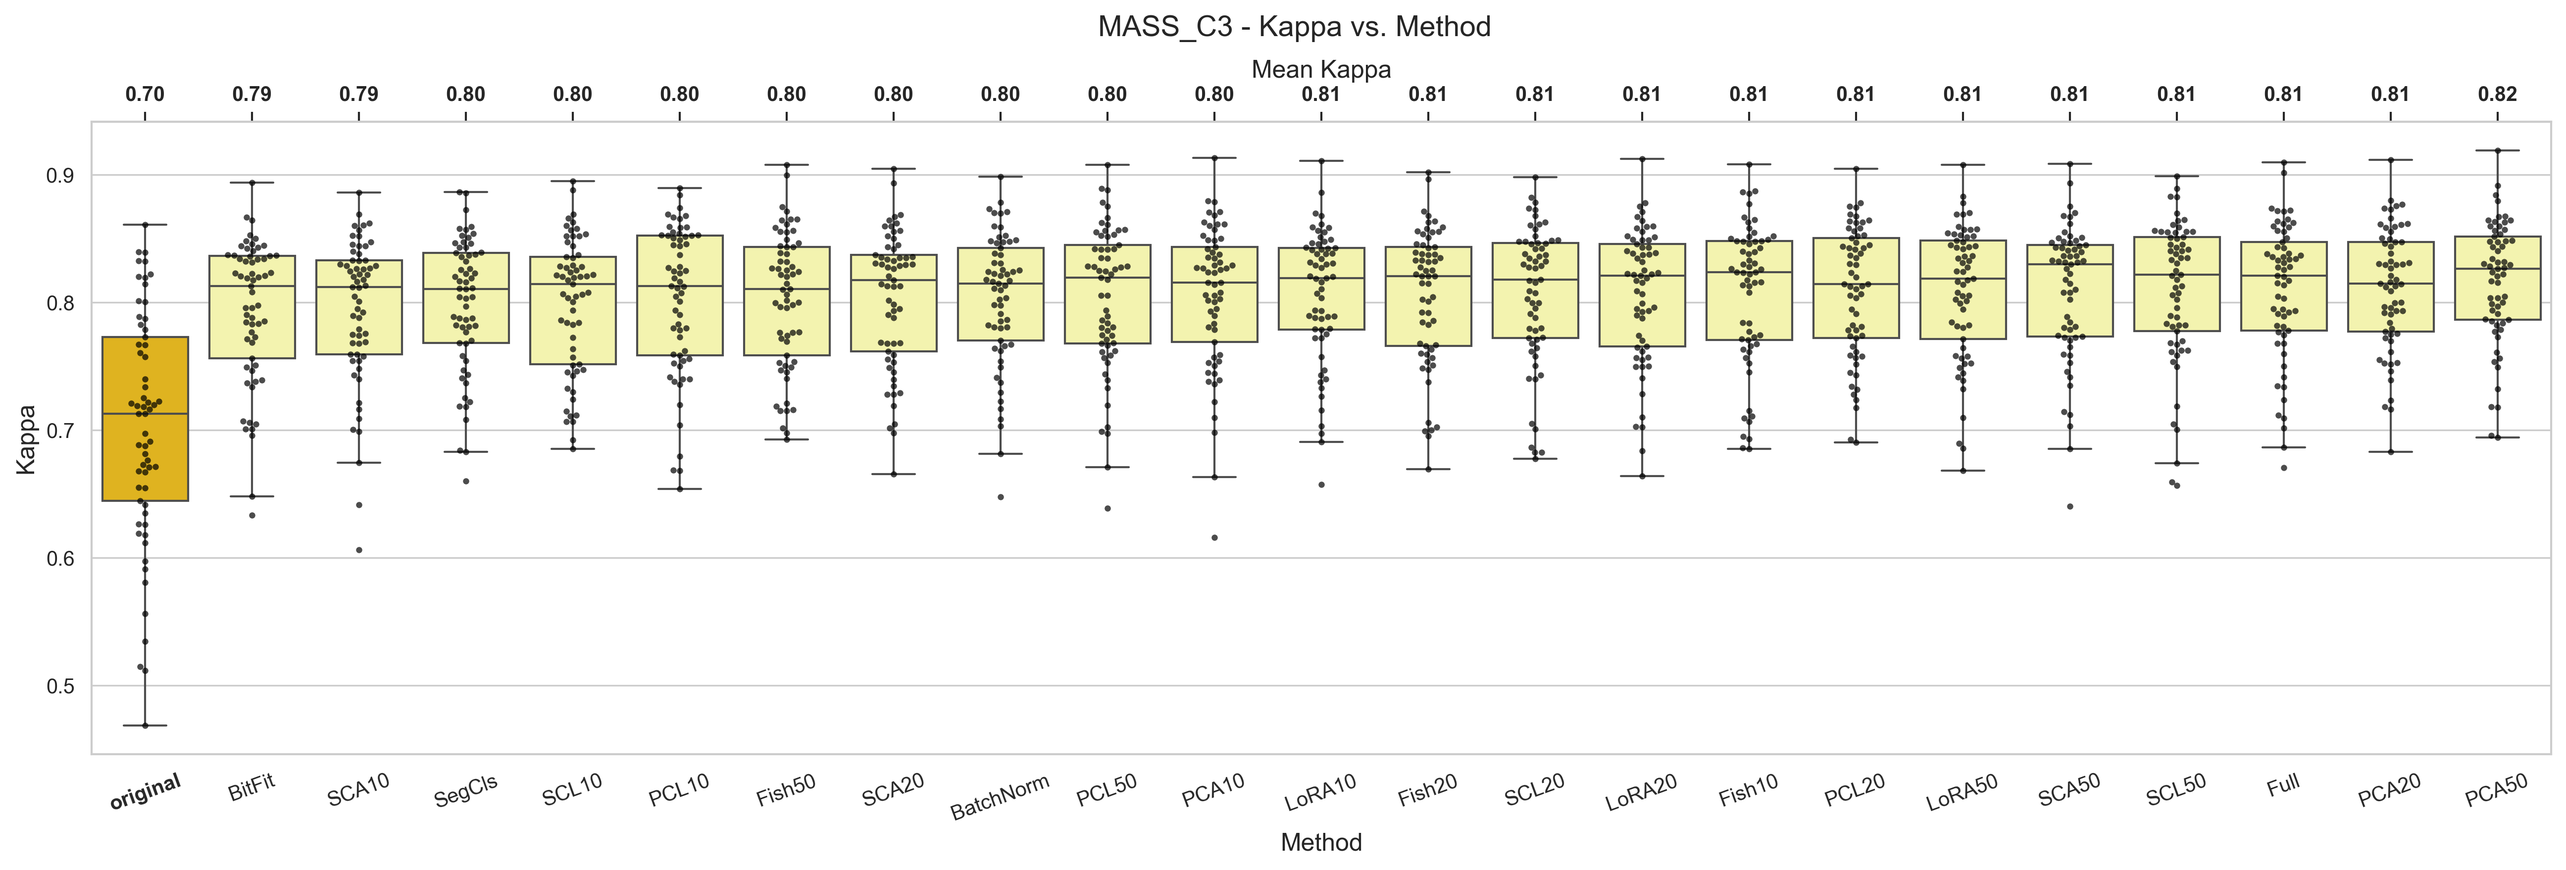
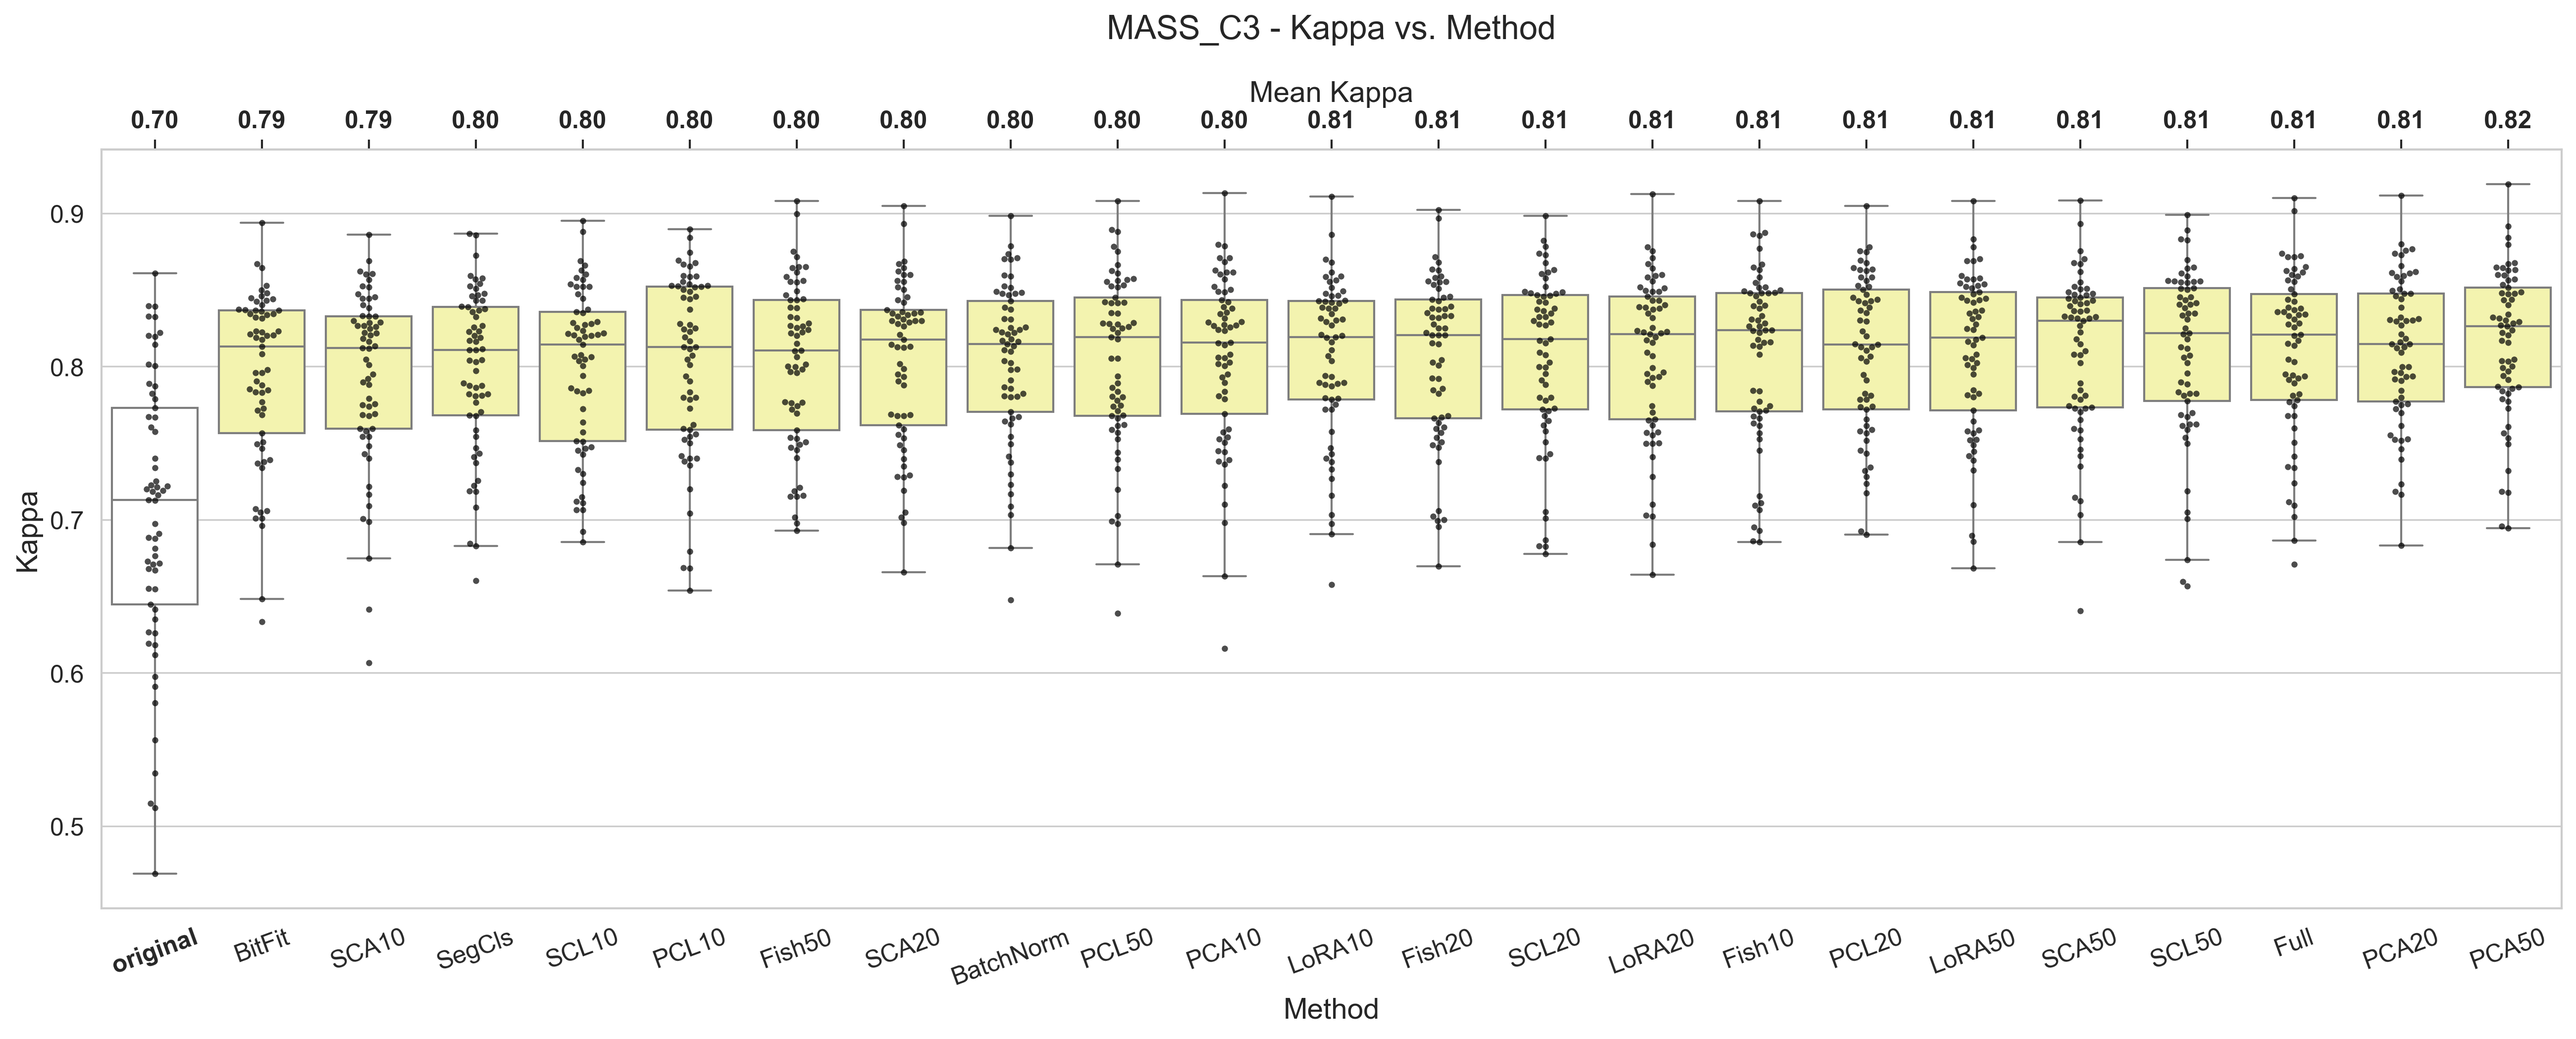
implemented kaare improvements

Changed region(s): [[0.0, 0.0, 0.994, 0.9522], [0.497, 0.9522, 0.5281, 0.9829]]

diff --git a/src/plot/kappa_vs_methods.py b/src/plot/kappa_vs_methods.py
@@ -42,6 +42,7 @@ def _plot_kappa_vs_methods(data: pl.DataFrame, show: bool = False) -> None:
 
     base_color = BASE_COLOR[dataset.lower()]
     highlight_color = HIGHLIGHT_COLOR[dataset.lower()]
+    highlight_color = "white"
 
     kappa_mean = data.group_by("method").agg(pl.mean("kappa")).sort("kappa")
     method_order = kappa_mean.get_column("method").to_list()
@@ -51,8 +52,7 @@ def _plot_kappa_vs_methods(data: pl.DataFrame, show: bool = False) -> None:
         for method in method_order
     }
 
-    fig = plt.figure(figsize=(18, 6))
-    plt.subplots_adjust(left=0.05, right=0.97, top=0.95, bottom=0.07)
+    fig = plt.figure(figsize=(18, 7))
     sns.set_theme(style="whitegrid", context="paper")
     ax = sns.boxplot(
         data=data,
@@ -75,15 +75,20 @@ def _plot_kappa_vs_methods(data: pl.DataFrame, show: bool = False) -> None:
         ax=ax,
     )
 
-    plt.suptitle(f"{dataset.upper()} - Kappa vs. Method", size=14)
-    plt.xlabel("Method", fontsize=12)
-    plt.ylabel("Kappa", fontsize=12)
+    bbox_right = 0.97
+    bbox_left = 0.05
+    center = (bbox_left + bbox_right) / 2
+    plt.subplots_adjust(left=bbox_left, right=bbox_right, top=0.85, bottom=0.12)
+    plt.suptitle(
+        f"{dataset.upper()} - Kappa vs. Method", size=16, x=center, ha="center"
+    )
+    plt.xlabel("Method", fontsize=14)
+    plt.ylabel("Kappa", fontsize=14)
     plt.xticks(rotation=20, ha="center")
-    plt.subplots_adjust(top=0.86, bottom=0.15)
 
     ax.set_xticks(range(len(method_order)))
-    ax.set_xticklabels(ax.get_xticklabels(), fontsize=10)
-    ax.set_yticklabels(ax.get_yticklabels(), fontsize=10)
+    ax.set_xticklabels(ax.get_xticklabels(), fontsize=12)
+    ax.set_yticklabels(ax.get_yticklabels(), fontsize=12)
     for label in ax.get_xticklabels():
         if label.get_text() == "original":
             label.set_fontweight("bold")
@@ -93,10 +98,10 @@ def _plot_kappa_vs_methods(data: pl.DataFrame, show: bool = False) -> None:
     secax.set_xticklabels(
         [f"{mean:.2f}" for mean in kappa_mean.get_column("kappa")],
         ha="center",
-        fontsize=10,
+        fontsize=12,
         fontweight="bold",
     )
-    secax.set_xlabel("Mean Kappa", fontsize=12)
+    secax.set_xlabel("Mean Kappa", fontsize=14)
 
     save_figure(fig=fig, path=f"figures/{dataset}_kappa_vs_method.png")
 
@@ -106,4 +111,4 @@ def _plot_kappa_vs_methods(data: pl.DataFrame, show: bool = False) -> None:
 
 
 if __name__ == "__main__":
-    plot_kappa_vs_methods(show=True)
+    plot_kappa_vs_methods()
